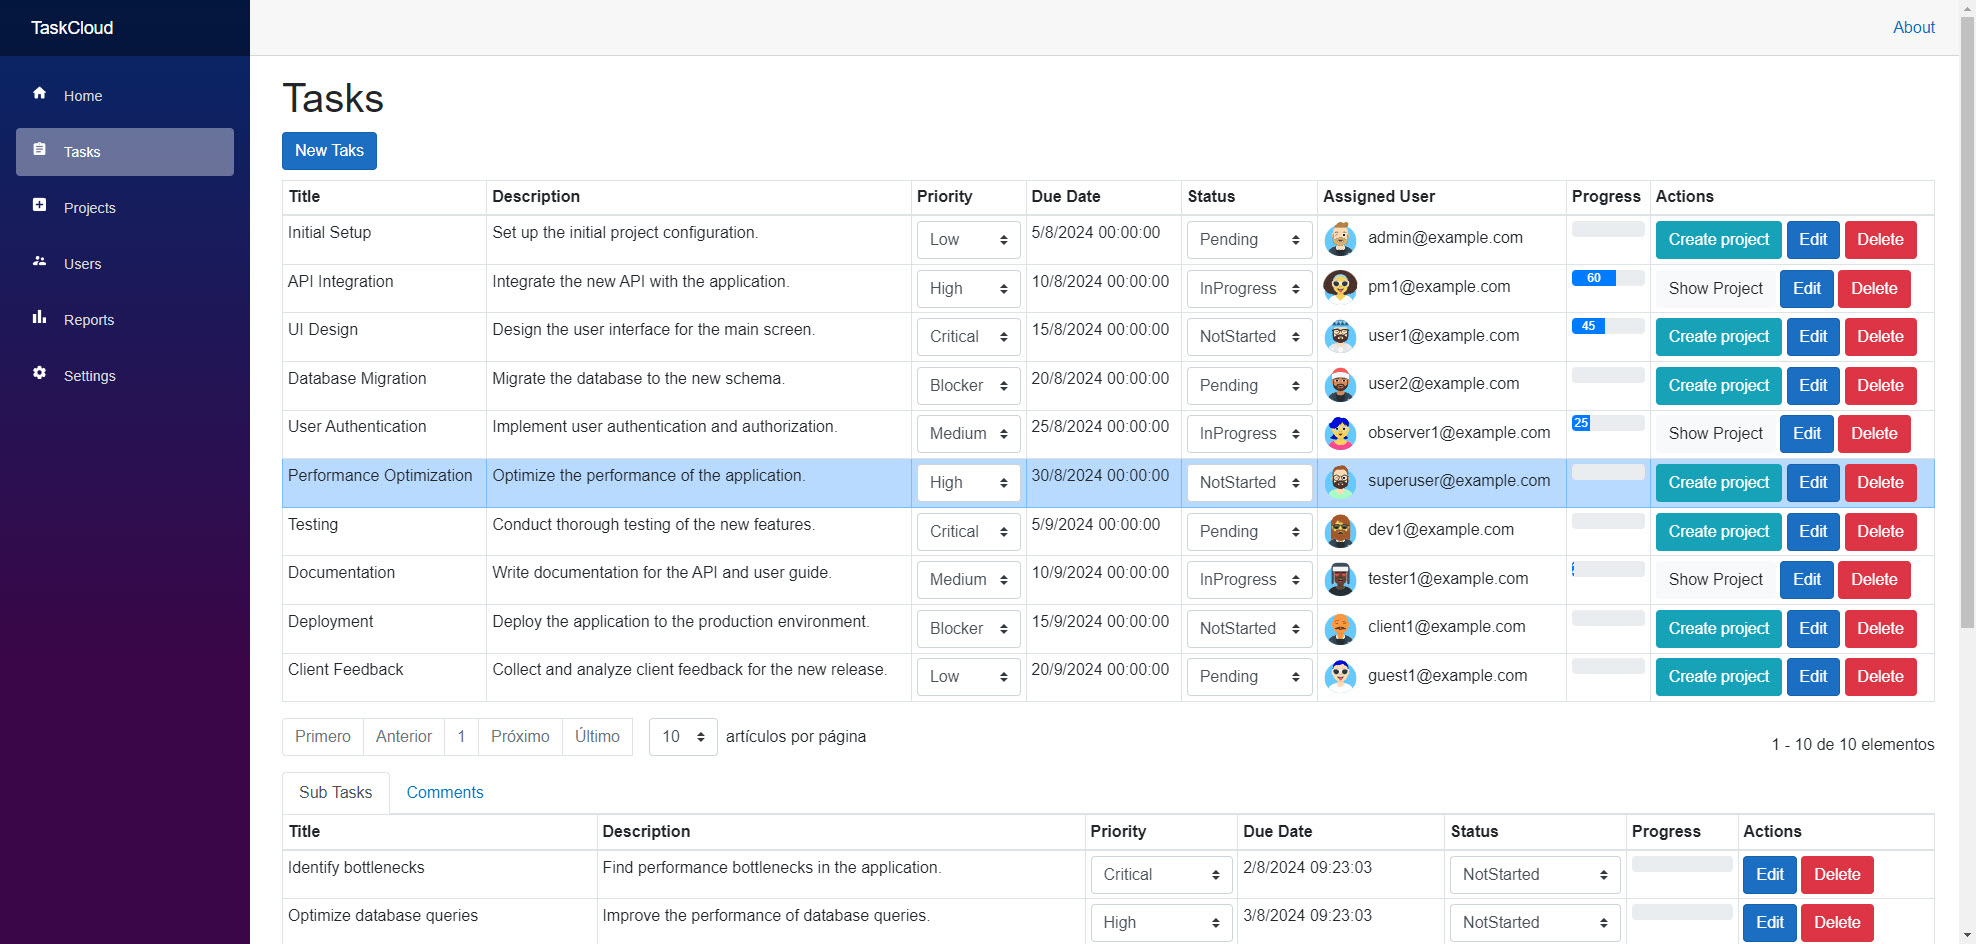
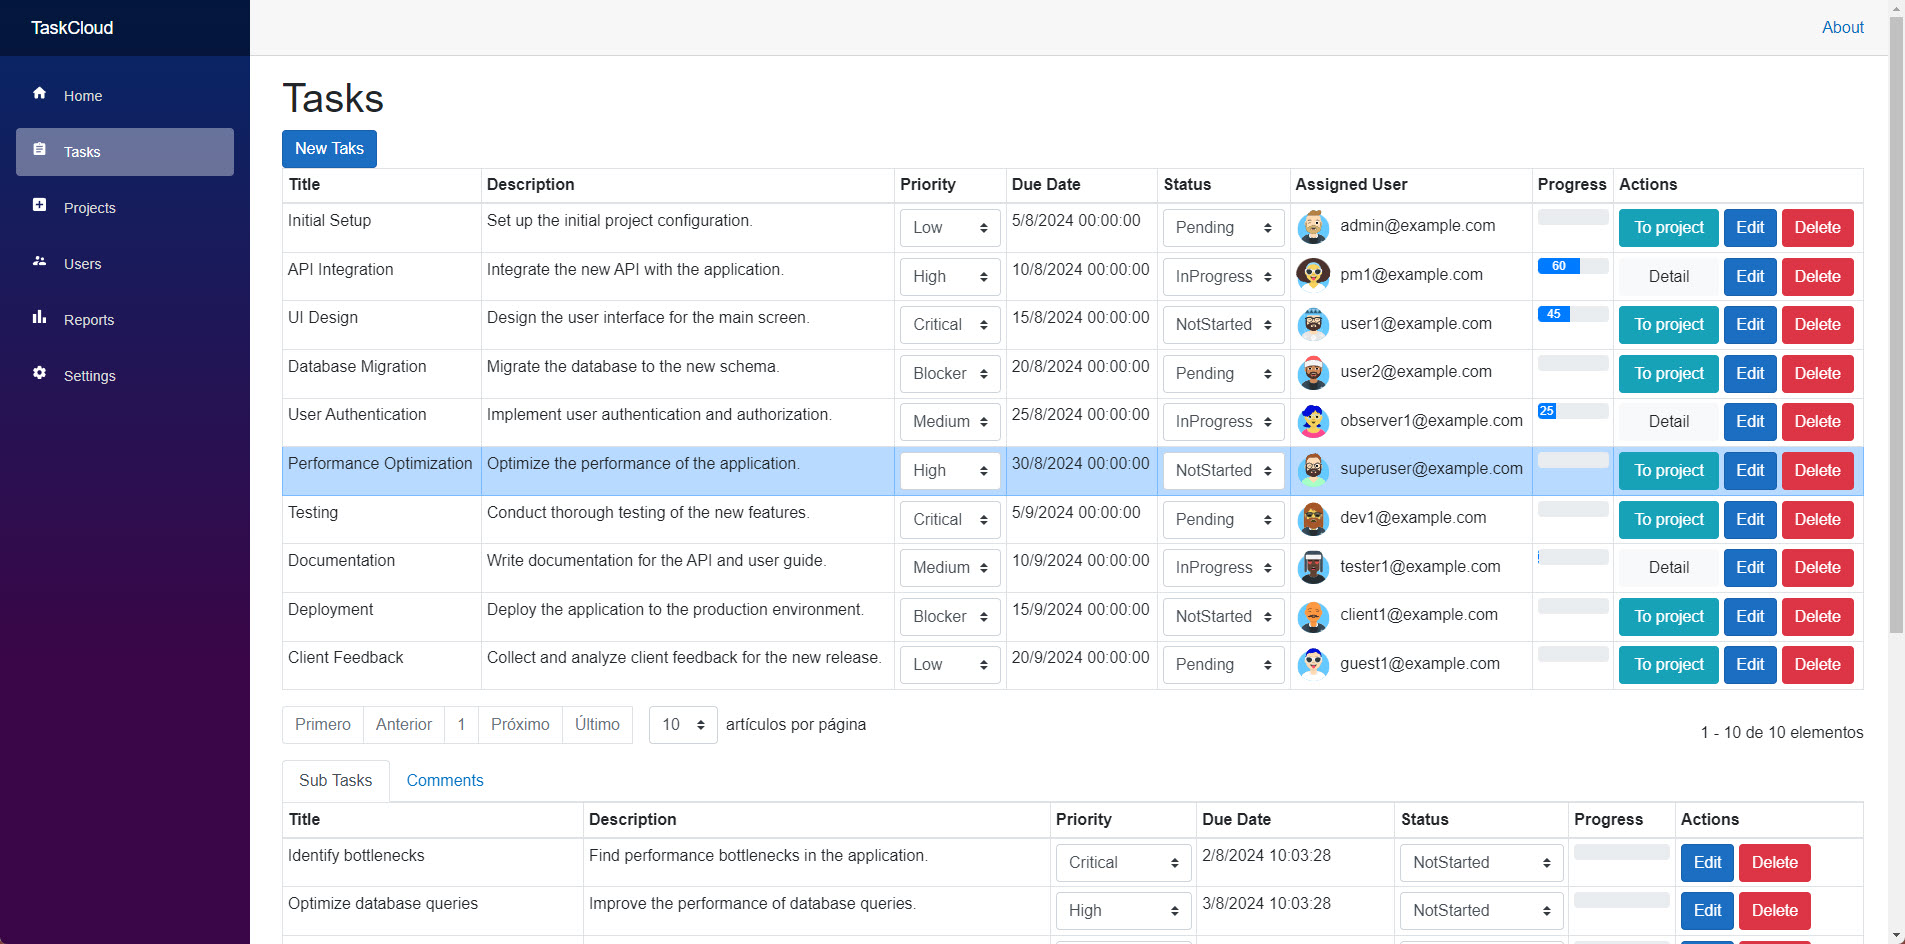
.

diff --git a/src/TaskCloud/Frontend/TaskCloud.WebApp/wwwroot/index.html b/src/TaskCloud/Frontend/TaskCloud.WebApp/wwwroot/index.html
@@ -11,7 +11,7 @@
 
     <link href="_content/Blazorise/blazorise.min.css?v=1.6.0.0" rel="stylesheet" />
     <link href="_content/Blazorise.Bootstrap/blazorise.bootstrap.css?v=1.6.0.0" rel="stylesheet" />
-    <link rel="stylesheet" href="css/app.css?v3" />
+    <link rel="stylesheet" href="css/app.css?v4" />
     <link rel="icon" type="image/png" href="favicon.png" />    
     <link href="TaskCloud.WebApp.styles.css" rel="stylesheet" />
 </head>

diff --git a/src/TaskCloud/Frontend/TaskCloud.WebApp/wwwroot/css/app.css b/src/TaskCloud/Frontend/TaskCloud.WebApp/wwwroot/css/app.css
@@ -117,3 +117,6 @@ code {
 .assigner-name {
     font-size: 1rem;
 }
+.btn-to-project {
+    width: 100px;
+}
